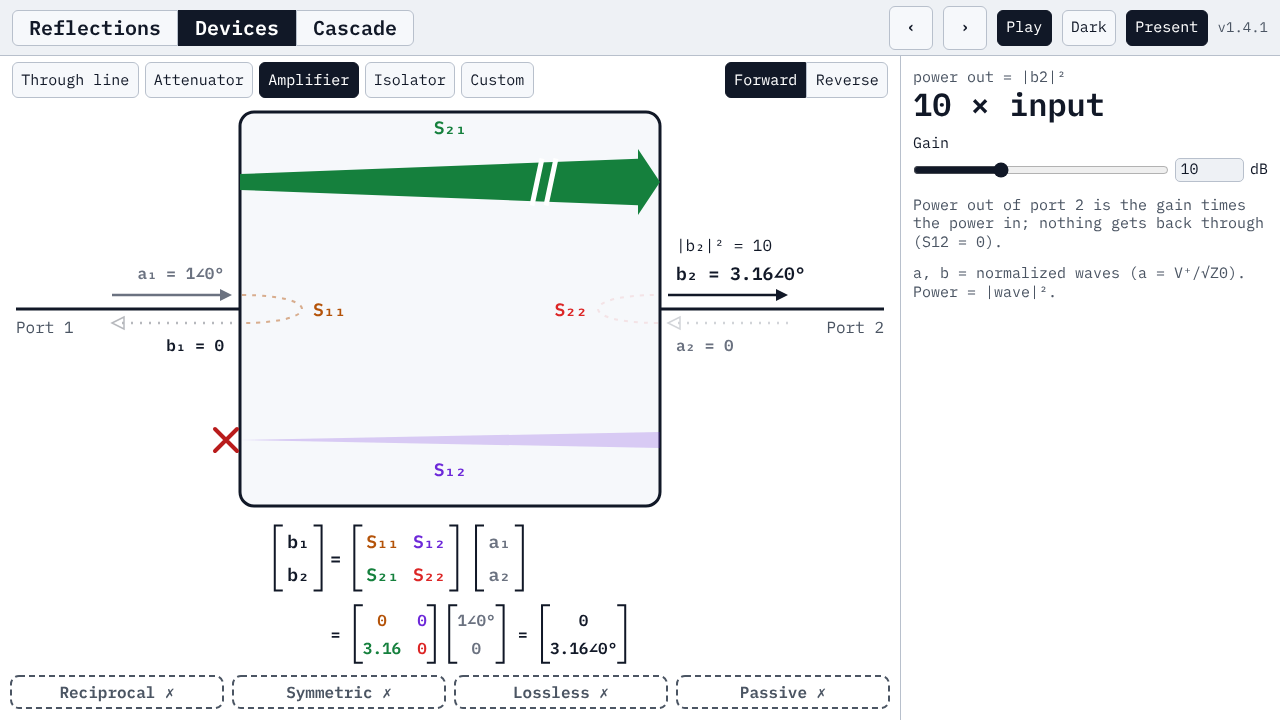
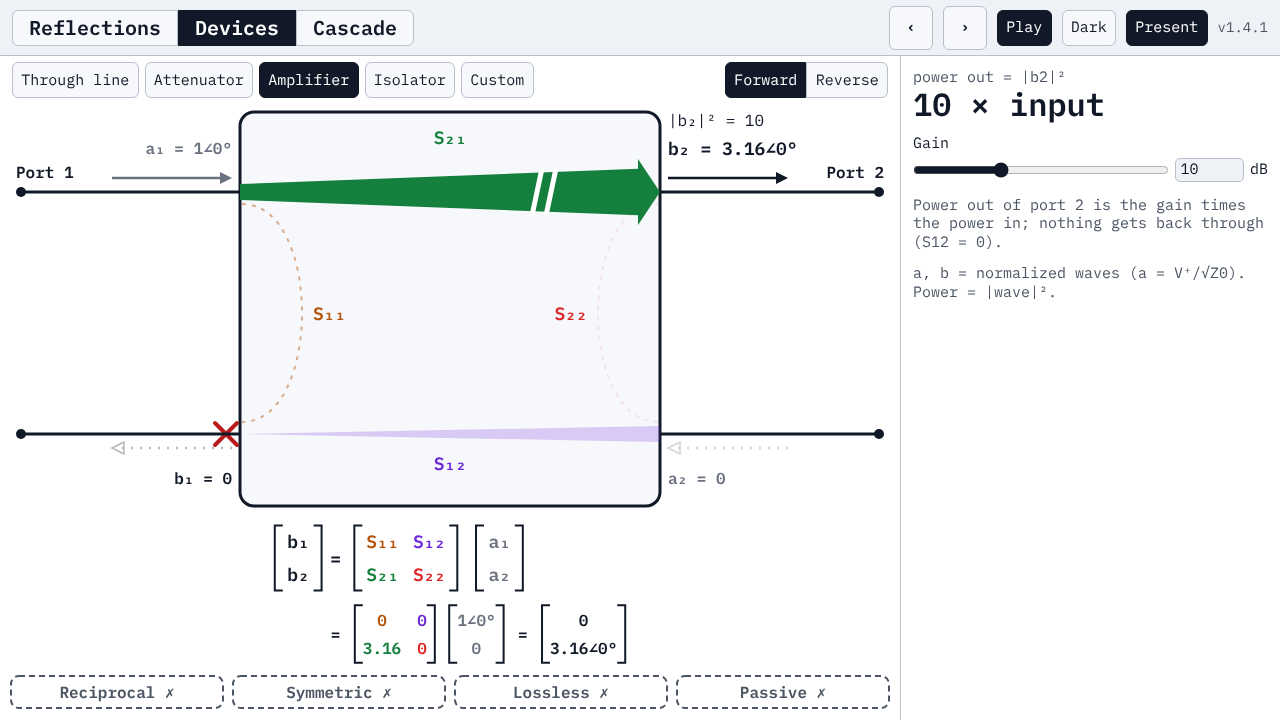
RF Cascade Analyzer v1.4.1: Devices ports drawn as the two-port symbol, paths joining the ports
Per Douglas: each port is two terminal wires with dots at the outer
ends and "Port 1/2" above them. The wires line up with the paths inside
(signal-flow style): S21 runs from port 1's top wire to port 2's top
wire, S12 from port 2's bottom wire to port 1's bottom wire, S11 loops
from port 1's top wire to its bottom wire, S22 from port 2's bottom
wire to its top wire. a1 comes in above port 1's top wire, b1 goes out
below its bottom wire; b2 goes out above port 2's top wire, a2 comes in
below its bottom wire. Tests updated.

Claude-Session: https://claude.ai/code/session_01K91XZ2Ca3dbV4NeCriL9c8

diff --git a/ece-4123/RF_Cascade_Analyzer_v1.4.1.html b/ece-4123/RF_Cascade_Analyzer_v1.4.1.html
@@ -847,15 +847,16 @@ const W0 = 16;                   // lane width for power 1 (the input); a path's
 const W_CAP = 3;                 // widths above 3 W0 are capped and drawn with a break mark
 const U_MIN = 2;                 // a U-turn's stroke is never thinner than this
 /* Layout (design units = px at 1280×720). The matrix rows and badges are stacked from the bottom up (gaps as in v1.2.0:
-   badges 12 above the bottom, the numeric row 12 above the badges); the box takes the height left above them.
-   Inside the box the S21 lane runs laneT below its top and the S12 lane laneB above its bottom, leaving room for their
-   tags even at the 3 W0 cap; the U-turns span uHalf above and below the port point (the box's middle), in line with the
-   wave arrows. The box is at most boxMax tall; in a taller drawing the whole stack is centred. Outside: the
-   port line from the edge to the box; the wave arrows (arrowL long) wOff above / below it, ending armGap from the box;
-   their labels labOff further out (and labIn further from the box, clear of a thick U-turn), the power line pwrGap
-   beyond its label; "Port 1/2" just under the line's outer end. */
-const LY_D = { xl: 240, xr: 660, top: 8, laneT: 70, laneB: 66, edge: 16, uDepth: 80, uHalf: 14, boxMax: 440, tagGap: 10, badgeH: 32, gapEdge: 12,
-               numHalf: 30, gapNum: 12, matHalf: 36, gapMat: 10, gapBox: 16, wOff: 14, arrowL: 120, armGap: 8, labIn: 8, labOff: 22, pwrGap: 28, portDown: 18 };
+   badges 12 above the bottom, the numeric row 12 above the badges); the box takes the height left above them (at most
+   boxMax; in a taller drawing the whole stack is centred). The two-port as a signal-flow graph: each port is two
+   terminal wires (dots at the outer ends) in line with the paths inside — the top wires at the S21 lane (laneT below
+   the box top), the bottom wires at the S12 lane (laneB above its bottom) — so S21 runs port 1 top → port 2 top, S12
+   port 2 bottom → port 1 bottom, S11 loops port 1 top → bottom (uEnd inside the corners) and S22 port 2 bottom → top.
+   Waves: a1 in above port 1's top wire, b1 out below its bottom wire; b2 out above port 2's top wire, a2 in below its
+   bottom wire; arrows arrowL long, wOff from the wire, ending armGap from the box; labels labOff further out, the power
+   line pwrGap beyond its label; "Port 1/2" above the top wire at the outer end (portUp). */
+const LY_D = { xl: 240, xr: 660, top: 8, laneT: 80, laneB: 72, edge: 16, uDepth: 80, uEnd: 12, boxMax: 400, tagGap: 10, badgeH: 32, gapEdge: 12,
+               numHalf: 30, gapNum: 12, matHalf: 36, gapMat: 10, gapBox: 16, termR: 5, wOff: 14, arrowL: 120, armGap: 8, labOff: 30, pwrGap: 28, portUp: 20 };
 // Vertical positions for a drawing H units tall: box top, badge, numeric row and matrix centres, box bottom.
 function geoD(H){
   const L = LY_D, stack = L.gapEdge + L.badgeH + L.gapNum + 2 * L.numHalf + L.gapMat + 2 * L.matHalf + L.gapBox;
@@ -949,40 +950,43 @@ function uTurnSvg(k, xe, yIn, yOut, m){
     + el('path', { d: 'M' + n2(xt) + ' ' + n2(yOut) + 'L' + n2(xe + d * 6) + ' ' + n2(yOut - w / 2 - 8) + 'L' + n2(xe + d * 6) + ' ' + n2(yOut + w / 2 + 8) + 'Z', fill: col, class: 'uhead' }),
     reach: LY_D.uDepth * 0.75 + w / 2 };
 }
-/* The two-port for device kind/params p in a drawing H units tall: a plain box holding the S21 and S12 lanes and the S11,
-   S22 U-turns with their name tags (no values: those are in the matrix); outside it one solid port line per side at the
-   box's middle, the wave arrows beside it with their labels, the driven output's power line, and "Port 1", "Port 2". */
+/* The two-port for device kind/params p in a drawing H units tall, as a signal-flow graph: a plain box holding the S21 and
+   S12 lanes and the S11, S22 loops with their name tags (no values: those are in the matrix), joined to the ports' two
+   terminal wires; outside it the wave arrows beside the wires with their labels, the driven output's power line, and
+   "Port 1", "Port 2" above the wires. */
 function drawTwoPort(H, kind, p){
   const S = deviceS(kind, p), w = deviceWaves(S), on = DRIVE_PATHS[D.drive], fwd = D.drive === 'fwd', L = LY_D, G = geoD(H);
-  const xl = L.xl, xr = L.xr, by = G.by, bb = G.bb, yT = by + L.laneT, yB = bb - L.laneB, mid = (by + bb) / 2, cx = (xl + xr) / 2;
+  const xl = L.xl, xr = L.xr, by = G.by, bb = G.bb, yT = by + L.laneT, yB = bb - L.laneB, mid = (yT + yB) / 2, cx = (xl + xr) / 2;
   const M = k => cabs(S[k]), op = k => (on.includes(k) ? null : FADE), wEnd = k => (M(k) < S_BLOCK ? 0 : pathW(M(k) ** 2));
   let s = el('rect', { x: xl, y: by, width: xr - xl, height: bb - by, rx: 14, fill: 'var(--panel)', stroke: 'var(--txt)', 'stroke-width': 3, class: 'box' });
-  // paths: the faded ones first so the driven ones sit on top; the U-turns at the port points
-  const u11 = uTurnSvg('s11', xl + 2, mid - L.uHalf, mid + L.uHalf, M('s11')), u22 = uTurnSvg('s22', xr - 2, mid + L.uHalf, mid - L.uHalf, M('s22'));
+  // paths: S21 a1 → b2 along the top, S12 a2 → b1 along the bottom, S11 a1 → b1 down the left, S22 a2 → b2 up the right;
+  // the faded ones first so the driven ones sit on top
+  const u11 = uTurnSvg('s11', xl + 2, yT + L.uEnd, yB - L.uEnd, M('s11')), u22 = uTurnSvg('s22', xr - 2, yB - L.uEnd, yT + L.uEnd, M('s22'));
   const l21 = laneSvg('s21', xl, xr, yT, M('s21')), l12 = laneSvg('s12', xr, xl, yB, M('s12')), parts = { s21: l21.svg, s12: l12.svg, s11: u11.svg, s22: u22.svg };
   S_KEYS.slice().sort((a, b) => on.includes(a) - on.includes(b)).forEach(k => { s += el('g', { class: 'pathg ' + k, 'data-s': k, 'data-live': on.includes(k) ? 1 : 0, opacity: op(k) }, parts[k]); });
   s += l21.mark + l12.mark;
   // S name tags, tagGap clear of the paths at their widest: S21 above the top lane and S12 below the bottom lane (a
   // lane's widest point is its arrowhead, 9 beyond the lane on each side; a blocked lane is a W0 wedge), S11 right of
-  // its U-turn and S22 left of its U-turn (which start 2 inside the box edge), at the port point
+  // its loop and S22 left of its loop (which start 2 inside the box edge), halfway down
   const half = FS.big * 0.65, edge = k => (M(k) < S_BLOCK ? W0 / 2 : Math.max(W0 / 2, Math.max(wEnd(k), 4) / 2 + 9));
   const lab = (k, x, y, anchor) => txt(x, y, 'S_' + k.slice(1), { anchor, size: FS.big, fill: 'var(--' + k + ')', cls: 'slabel', id: 'v' + k });
   s += lab('s21', cx, yT - edge('s21') - L.tagGap - half, 'middle') + lab('s12', cx, yB + edge('s12') + L.tagGap + half, 'middle');
   s += lab('s11', xl + 2 + u11.reach + L.tagGap, mid, 'start') + lab('s22', xr - 2 - u22.reach - L.tagGap, mid, 'end');
-  // port lines: one solid line per side at the middle, from the edge to the box, never faded
-  const xL = L.edge, xR = DESIGN_W - L.edge, line = (x0, x1, port) => el('line', { x1: x0, y1: mid, x2: x1, y2: mid, stroke: 'var(--txt)', 'stroke-width': 3, class: 'portline', 'data-port': port });
-  s += line(xL, xl, 1) + line(xr, xR, 2);
-  // wave arrows beside the port lines (a grey, b text colour) and their labels on the outer side; the driven output bold
-  const aU = mid - L.wOff, aD = mid + L.wOff, p1 = xl - L.armGap, p2 = xr + L.armGap, t1 = p1 - L.labIn, t2 = p2 + L.labIn, col = n => (n[0] === 'a' ? 'var(--grey)' : 'var(--txt)');
+  // each port's two terminal wires, in line with the lanes, from a terminal dot at the outer end to the box; never faded
+  const xL = L.edge, xR = DESIGN_W - L.edge, wire2 = (x0, x1, y, port, xd) => el('line', { x1: x0, y1: y, x2: x1, y2: y, stroke: 'var(--txt)', 'stroke-width': 3, class: 'portline', 'data-port': port })
+    + el('circle', { cx: xd, cy: y, r: L.termR, fill: 'var(--txt)', class: 'term' });
+  for(const y of [yT, yB]) s += wire2(xL + L.termR, xl, y, 1, xL + L.termR) + wire2(xr, xR - L.termR, y, 2, xR - L.termR);
+  // wave arrows beside the wires (a grey, b text colour) and their labels on the outer side; the driven output bold
+  const aU = yT - L.wOff, aD = yB + L.wOff, p1 = xl - L.armGap, p2 = xr + L.armGap, col = n => (n[0] === 'a' ? 'var(--grey)' : 'var(--txt)');
   const wire = (x0, x1, y, name) => lineArrow(x0, x1, y, col(name), cabs(w[name]) < S_ZERO, name, cabs(w[name]));
   const wlab = (name, x, y, anchor, big) => txt(x, y, name.replace(/(\d)$/, '_$1') + ' = ' + waveText(w[name]), { anchor, fill: col(name), size: big ? FS_OUT : FS.label, weight: big ? 700 : 600, cls: 'wlabel' + (big ? ' out' : ''), id: 'w' + name });
   const plab = (name, x, y, anchor) => txt(x, y, '|' + name.replace(/(\d)$/, '_$1') + '|² = ' + (cabs(w[name]) < S_ZERO ? '0' : sig2(cabs(w[name]) ** 2)), { anchor, fill: 'var(--txt)', size: FS.label, weight: 400, cls: 'plabel', id: 'p' + name });
-  s += wire(p1 - L.arrowL, p1, aU, 'a1') + wlab('a1', t1, aU - L.labOff, 'end', false);
-  s += wire(p1, p1 - L.arrowL, aD, 'b1') + wlab('b1', t1, aD + L.labOff, 'end', !fwd);
-  s += wire(p2, p2 + L.arrowL, aU, 'b2') + wlab('b2', t2, aU - L.labOff, 'start', fwd);
-  s += wire(p2 + L.arrowL, p2, aD, 'a2') + wlab('a2', t2, aD + L.labOff, 'start', false);
-  s += fwd ? plab('b2', t2, aU - L.labOff - L.pwrGap, 'start') : plab('b1', t1, aD + L.labOff + L.pwrGap, 'end');
-  s += txt(xL, mid + L.portDown, 'Port 1', { fill: 'var(--mut)', weight: 400, cls: 'port' }) + txt(xR, mid + L.portDown, 'Port 2', { anchor: 'end', fill: 'var(--mut)', weight: 400, cls: 'port' });
+  s += wire(p1 - L.arrowL, p1, aU, 'a1') + wlab('a1', p1, aU - L.labOff, 'end', false);
+  s += wire(p1, p1 - L.arrowL, aD, 'b1') + wlab('b1', p1, aD + L.labOff, 'end', !fwd);
+  s += wire(p2, p2 + L.arrowL, aU, 'b2') + wlab('b2', p2, aU - L.labOff, 'start', fwd);
+  s += wire(p2 + L.arrowL, p2, aD, 'a2') + wlab('a2', p2, aD + L.labOff, 'start', false);
+  s += fwd ? plab('b2', p2, aU - L.labOff - L.pwrGap, 'start') : plab('b1', p1, aD + L.labOff + L.pwrGap, 'end');
+  s += txt(xL, yT - L.portUp, 'Port 1', { weight: 600, cls: 'port' }) + txt(xR, yT - L.portUp, 'Port 2', { anchor: 'end', weight: 600, cls: 'port' });
   return { svg: s, S, w, G };
 }
 // ── END TWO-PORT DRAWING ──────────────────────────────────────

diff --git a/ece-4123/RF_Cascade_Analyzer_src/devices.js b/ece-4123/RF_Cascade_Analyzer_src/devices.js
@@ -28,15 +28,16 @@ const W0 = 16;                   // lane width for power 1 (the input); a path's
 const W_CAP = 3;                 // widths above 3 W0 are capped and drawn with a break mark
 const U_MIN = 2;                 // a U-turn's stroke is never thinner than this
 /* Layout (design units = px at 1280×720). The matrix rows and badges are stacked from the bottom up (gaps as in v1.2.0:
-   badges 12 above the bottom, the numeric row 12 above the badges); the box takes the height left above them.
-   Inside the box the S21 lane runs laneT below its top and the S12 lane laneB above its bottom, leaving room for their
-   tags even at the 3 W0 cap; the U-turns span uHalf above and below the port point (the box's middle), in line with the
-   wave arrows. The box is at most boxMax tall; in a taller drawing the whole stack is centred. Outside: the
-   port line from the edge to the box; the wave arrows (arrowL long) wOff above / below it, ending armGap from the box;
-   their labels labOff further out (and labIn further from the box, clear of a thick U-turn), the power line pwrGap
-   beyond its label; "Port 1/2" just under the line's outer end. */
-const LY_D = { xl: 240, xr: 660, top: 8, laneT: 70, laneB: 66, edge: 16, uDepth: 80, uHalf: 14, boxMax: 440, tagGap: 10, badgeH: 32, gapEdge: 12,
-               numHalf: 30, gapNum: 12, matHalf: 36, gapMat: 10, gapBox: 16, wOff: 14, arrowL: 120, armGap: 8, labIn: 8, labOff: 22, pwrGap: 28, portDown: 18 };
+   badges 12 above the bottom, the numeric row 12 above the badges); the box takes the height left above them (at most
+   boxMax; in a taller drawing the whole stack is centred). The two-port as a signal-flow graph: each port is two
+   terminal wires (dots at the outer ends) in line with the paths inside — the top wires at the S21 lane (laneT below
+   the box top), the bottom wires at the S12 lane (laneB above its bottom) — so S21 runs port 1 top → port 2 top, S12
+   port 2 bottom → port 1 bottom, S11 loops port 1 top → bottom (uEnd inside the corners) and S22 port 2 bottom → top.
+   Waves: a1 in above port 1's top wire, b1 out below its bottom wire; b2 out above port 2's top wire, a2 in below its
+   bottom wire; arrows arrowL long, wOff from the wire, ending armGap from the box; labels labOff further out, the power
+   line pwrGap beyond its label; "Port 1/2" above the top wire at the outer end (portUp). */
+const LY_D = { xl: 240, xr: 660, top: 8, laneT: 80, laneB: 72, edge: 16, uDepth: 80, uEnd: 12, boxMax: 400, tagGap: 10, badgeH: 32, gapEdge: 12,
+               numHalf: 30, gapNum: 12, matHalf: 36, gapMat: 10, gapBox: 16, termR: 5, wOff: 14, arrowL: 120, armGap: 8, labOff: 30, pwrGap: 28, portUp: 20 };
 // Vertical positions for a drawing H units tall: box top, badge, numeric row and matrix centres, box bottom.
 function geoD(H){
   const L = LY_D, stack = L.gapEdge + L.badgeH + L.gapNum + 2 * L.numHalf + L.gapMat + 2 * L.matHalf + L.gapBox;
@@ -130,40 +131,43 @@ function uTurnSvg(k, xe, yIn, yOut, m){
     + el('path', { d: 'M' + n2(xt) + ' ' + n2(yOut) + 'L' + n2(xe + d * 6) + ' ' + n2(yOut - w / 2 - 8) + 'L' + n2(xe + d * 6) + ' ' + n2(yOut + w / 2 + 8) + 'Z', fill: col, class: 'uhead' }),
     reach: LY_D.uDepth * 0.75 + w / 2 };
 }
-/* The two-port for device kind/params p in a drawing H units tall: a plain box holding the S21 and S12 lanes and the S11,
-   S22 U-turns with their name tags (no values: those are in the matrix); outside it one solid port line per side at the
-   box's middle, the wave arrows beside it with their labels, the driven output's power line, and "Port 1", "Port 2". */
+/* The two-port for device kind/params p in a drawing H units tall, as a signal-flow graph: a plain box holding the S21 and
+   S12 lanes and the S11, S22 loops with their name tags (no values: those are in the matrix), joined to the ports' two
+   terminal wires; outside it the wave arrows beside the wires with their labels, the driven output's power line, and
+   "Port 1", "Port 2" above the wires. */
 function drawTwoPort(H, kind, p){
   const S = deviceS(kind, p), w = deviceWaves(S), on = DRIVE_PATHS[D.drive], fwd = D.drive === 'fwd', L = LY_D, G = geoD(H);
-  const xl = L.xl, xr = L.xr, by = G.by, bb = G.bb, yT = by + L.laneT, yB = bb - L.laneB, mid = (by + bb) / 2, cx = (xl + xr) / 2;
+  const xl = L.xl, xr = L.xr, by = G.by, bb = G.bb, yT = by + L.laneT, yB = bb - L.laneB, mid = (yT + yB) / 2, cx = (xl + xr) / 2;
   const M = k => cabs(S[k]), op = k => (on.includes(k) ? null : FADE), wEnd = k => (M(k) < S_BLOCK ? 0 : pathW(M(k) ** 2));
   let s = el('rect', { x: xl, y: by, width: xr - xl, height: bb - by, rx: 14, fill: 'var(--panel)', stroke: 'var(--txt)', 'stroke-width': 3, class: 'box' });
-  // paths: the faded ones first so the driven ones sit on top; the U-turns at the port points
-  const u11 = uTurnSvg('s11', xl + 2, mid - L.uHalf, mid + L.uHalf, M('s11')), u22 = uTurnSvg('s22', xr - 2, mid + L.uHalf, mid - L.uHalf, M('s22'));
+  // paths: S21 a1 → b2 along the top, S12 a2 → b1 along the bottom, S11 a1 → b1 down the left, S22 a2 → b2 up the right;
+  // the faded ones first so the driven ones sit on top
+  const u11 = uTurnSvg('s11', xl + 2, yT + L.uEnd, yB - L.uEnd, M('s11')), u22 = uTurnSvg('s22', xr - 2, yB - L.uEnd, yT + L.uEnd, M('s22'));
   const l21 = laneSvg('s21', xl, xr, yT, M('s21')), l12 = laneSvg('s12', xr, xl, yB, M('s12')), parts = { s21: l21.svg, s12: l12.svg, s11: u11.svg, s22: u22.svg };
   S_KEYS.slice().sort((a, b) => on.includes(a) - on.includes(b)).forEach(k => { s += el('g', { class: 'pathg ' + k, 'data-s': k, 'data-live': on.includes(k) ? 1 : 0, opacity: op(k) }, parts[k]); });
   s += l21.mark + l12.mark;
   // S name tags, tagGap clear of the paths at their widest: S21 above the top lane and S12 below the bottom lane (a
   // lane's widest point is its arrowhead, 9 beyond the lane on each side; a blocked lane is a W0 wedge), S11 right of
-  // its U-turn and S22 left of its U-turn (which start 2 inside the box edge), at the port point
+  // its loop and S22 left of its loop (which start 2 inside the box edge), halfway down
   const half = FS.big * 0.65, edge = k => (M(k) < S_BLOCK ? W0 / 2 : Math.max(W0 / 2, Math.max(wEnd(k), 4) / 2 + 9));
   const lab = (k, x, y, anchor) => txt(x, y, 'S_' + k.slice(1), { anchor, size: FS.big, fill: 'var(--' + k + ')', cls: 'slabel', id: 'v' + k });
   s += lab('s21', cx, yT - edge('s21') - L.tagGap - half, 'middle') + lab('s12', cx, yB + edge('s12') + L.tagGap + half, 'middle');
   s += lab('s11', xl + 2 + u11.reach + L.tagGap, mid, 'start') + lab('s22', xr - 2 - u22.reach - L.tagGap, mid, 'end');
-  // port lines: one solid line per side at the middle, from the edge to the box, never faded
-  const xL = L.edge, xR = DESIGN_W - L.edge, line = (x0, x1, port) => el('line', { x1: x0, y1: mid, x2: x1, y2: mid, stroke: 'var(--txt)', 'stroke-width': 3, class: 'portline', 'data-port': port });
-  s += line(xL, xl, 1) + line(xr, xR, 2);
-  // wave arrows beside the port lines (a grey, b text colour) and their labels on the outer side; the driven output bold
-  const aU = mid - L.wOff, aD = mid + L.wOff, p1 = xl - L.armGap, p2 = xr + L.armGap, t1 = p1 - L.labIn, t2 = p2 + L.labIn, col = n => (n[0] === 'a' ? 'var(--grey)' : 'var(--txt)');
+  // each port's two terminal wires, in line with the lanes, from a terminal dot at the outer end to the box; never faded
+  const xL = L.edge, xR = DESIGN_W - L.edge, wire2 = (x0, x1, y, port, xd) => el('line', { x1: x0, y1: y, x2: x1, y2: y, stroke: 'var(--txt)', 'stroke-width': 3, class: 'portline', 'data-port': port })
+    + el('circle', { cx: xd, cy: y, r: L.termR, fill: 'var(--txt)', class: 'term' });
+  for(const y of [yT, yB]) s += wire2(xL + L.termR, xl, y, 1, xL + L.termR) + wire2(xr, xR - L.termR, y, 2, xR - L.termR);
+  // wave arrows beside the wires (a grey, b text colour) and their labels on the outer side; the driven output bold
+  const aU = yT - L.wOff, aD = yB + L.wOff, p1 = xl - L.armGap, p2 = xr + L.armGap, col = n => (n[0] === 'a' ? 'var(--grey)' : 'var(--txt)');
   const wire = (x0, x1, y, name) => lineArrow(x0, x1, y, col(name), cabs(w[name]) < S_ZERO, name, cabs(w[name]));
   const wlab = (name, x, y, anchor, big) => txt(x, y, name.replace(/(\d)$/, '_$1') + ' = ' + waveText(w[name]), { anchor, fill: col(name), size: big ? FS_OUT : FS.label, weight: big ? 700 : 600, cls: 'wlabel' + (big ? ' out' : ''), id: 'w' + name });
   const plab = (name, x, y, anchor) => txt(x, y, '|' + name.replace(/(\d)$/, '_$1') + '|² = ' + (cabs(w[name]) < S_ZERO ? '0' : sig2(cabs(w[name]) ** 2)), { anchor, fill: 'var(--txt)', size: FS.label, weight: 400, cls: 'plabel', id: 'p' + name });
-  s += wire(p1 - L.arrowL, p1, aU, 'a1') + wlab('a1', t1, aU - L.labOff, 'end', false);
-  s += wire(p1, p1 - L.arrowL, aD, 'b1') + wlab('b1', t1, aD + L.labOff, 'end', !fwd);
-  s += wire(p2, p2 + L.arrowL, aU, 'b2') + wlab('b2', t2, aU - L.labOff, 'start', fwd);
-  s += wire(p2 + L.arrowL, p2, aD, 'a2') + wlab('a2', t2, aD + L.labOff, 'start', false);
-  s += fwd ? plab('b2', t2, aU - L.labOff - L.pwrGap, 'start') : plab('b1', t1, aD + L.labOff + L.pwrGap, 'end');
-  s += txt(xL, mid + L.portDown, 'Port 1', { fill: 'var(--mut)', weight: 400, cls: 'port' }) + txt(xR, mid + L.portDown, 'Port 2', { anchor: 'end', fill: 'var(--mut)', weight: 400, cls: 'port' });
+  s += wire(p1 - L.arrowL, p1, aU, 'a1') + wlab('a1', p1, aU - L.labOff, 'end', false);
+  s += wire(p1, p1 - L.arrowL, aD, 'b1') + wlab('b1', p1, aD + L.labOff, 'end', !fwd);
+  s += wire(p2, p2 + L.arrowL, aU, 'b2') + wlab('b2', p2, aU - L.labOff, 'start', fwd);
+  s += wire(p2 + L.arrowL, p2, aD, 'a2') + wlab('a2', p2, aD + L.labOff, 'start', false);
+  s += fwd ? plab('b2', p2, aU - L.labOff - L.pwrGap, 'start') : plab('b1', p1, aD + L.labOff + L.pwrGap, 'end');
+  s += txt(xL, yT - L.portUp, 'Port 1', { weight: 600, cls: 'port' }) + txt(xR, yT - L.portUp, 'Port 2', { anchor: 'end', weight: 600, cls: 'port' });
   return { svg: s, S, w, G };
 }
 // ── END TWO-PORT DRAWING ──────────────────────────────────────

diff --git a/ece-4123/RF_Cascade_Analyzer_src/tests/browser.test.js b/ece-4123/RF_Cascade_Analyzer_src/tests/browser.test.js
@@ -122,8 +122,10 @@ const plusIssues = page => page.evaluate(() => {
 });
 // ── DEVICES LAYOUT ── on screen, in px: box → matrix ≥ 16; numeric row → badges ≥ 12; badges → bottom of the screen
 // ≥ 12; every label and both matrix rows ≥ 16 from the drawing's left edge and from the drawing/panel divider; inside
-// the box no text but the four S name tags, which stay inside it (v1.3.0 items 1, 6; v1.4.0 B.2); one solid port line
-// per side at the box's middle, from the edge to the box, never faded (v1.4.1 B.1); S tags ≥ 8 px clear of every lane
+// the box no text but the four S name tags, which stay inside it (v1.3.0 items 1, 6; v1.4.0 B.2); each port drawn as
+// the two-port symbol — two solid terminal wires from a terminal dot at the 16 px edge to the box, never faded, the top
+// wires in line with the S21 lane and the bottom wires with the S12 lane (v1.4.1 B.1, as revised by Douglas: the paths
+// join the ports, signal-flow style); S tags ≥ 8 px clear of every lane
 // and U-turn (v1.4.1 B.2); matrix entries ≤ 20 px, row 2 ≤ 16 px, badge text ≤ 16 px (v1.4.1 B.3).
 const devGapIssues = page => page.evaluate(() => {
   const bad = [], R = e => e.getBoundingClientRect(), sv = document.querySelector('#stage svg'), svg = R(sv), box = R(document.querySelector('#stage .box')), k = svg.width / sv.viewBox.baseVal.width;
@@ -133,12 +135,14 @@ const devGapIssues = page => page.evaluate(() => {
   g('numeric row→badges', Math.min(...badges.map(r => r.top)) - num.bottom, 12); g('badges→screen bottom', window.innerHeight - Math.max(...badges.map(r => r.bottom)), 12);
   g('matrix rows from left edge', Math.min(mat.left, num.left) - svg.left, 16); g('matrix rows from divider', svg.right - Math.max(mat.right, num.right), 16);
   g('row 1 → row 2', num.top - mat.bottom, 4);
-  const pl = [...document.querySelectorAll('#stage .portline')], mid = (box.top + box.bottom) / 2;
-  if(pl.length !== 2) bad.push('port lines: ' + pl.length);
+  const pl = [...document.querySelectorAll('#stage .portline')], cyOf = e => { const r = R(e); return (r.top + r.bottom) / 2; };
+  const yT = cyOf(document.querySelector('#stage .lane.s21')), yB = cyOf(document.querySelector('#stage .lane.s12'));
+  if(pl.length !== 4) bad.push('port wires: ' + pl.length);
+  if(document.querySelectorAll('#stage .term').length !== 4) bad.push('terminal dots: ' + document.querySelectorAll('#stage .term').length);
   pl.forEach(l => { const r = R(l), cs = getComputedStyle(l), port = l.dataset.port;
     if(cs.strokeDasharray !== 'none' || l.closest('[opacity]') || l.getAttribute('stroke') !== 'var(--txt)' || +l.getAttribute('stroke-width') !== 3) bad.push('port line ' + port + ' not solid');
-    if(Math.abs((r.top + r.bottom) / 2 - mid) > 1) bad.push('port line ' + port + ' off the middle');
-    if(port === '1' ? (Math.abs(r.left - svg.left - 16 * k) > 1 || Math.abs(r.right - box.left) > 2) : (Math.abs(svg.right - r.right - 16 * k) > 1 || Math.abs(r.left - box.right) > 2)) bad.push('port line ' + port + ' ends'); });
+    const y = (r.top + r.bottom) / 2; if(Math.min(Math.abs(y - yT), Math.abs(y - yB)) > 1) bad.push('port wire ' + port + ' not in line with a lane');
+    if(port === '1' ? (Math.abs(r.left - svg.left - 21 * k) > 1 || Math.abs(r.right - box.left) > 2) : (Math.abs(svg.right - r.right - 21 * k) > 1 || Math.abs(r.left - box.right) > 2)) bad.push('port line ' + port + ' ends'); });
   const inkR = [...document.querySelectorAll('#stage .lane, #stage .uturn, #stage .brk')].map(e => { const r = R(e), sw = parseFloat(getComputedStyle(e).strokeWidth) || 0, o = e.classList.contains('uturn') ? sw / 2 * k : 0;
     return { l: r.left - o, r: r.right + o, t: r.top - o, b: r.bottom + o }; });
   ['vs11', 'vs21', 'vs12', 'vs22'].forEach(id => { const t = R(document.getElementById(id));
@@ -340,13 +344,17 @@ const alignIssues = page => page.evaluate(() => {
     check('inside the box: only the four S labels (no "Two-Port", dB caption, ruler or isolator text)', noText === 'vs11,vs12,vs21,vs22', noText);
     check('the box is a plain rounded rectangle (rx 14, 3 px border); no header line', await page.evaluate(() => { const b = document.querySelector('#stage .box');
       return b.getAttribute('rx') === '14' && b.getAttribute('stroke-width') === '3' && !document.querySelector('#stage .headline, #stage .boxTitle, #boxCaption'); }));
-    check('port layout (v1.4.1 B.1): one port line per side at the middle; a1 in above and b1 out below at port 1, b2 out above and a2 in below at port 2; "Port 1/2" under the outer ends', await page.evaluate(() => {
-      const r = q => document.querySelector('#stage .wave[data-q="' + q + '"]').getBoundingClientRect(), y = q => (r(q).top + r(q).bottom) / 2, dir = q => { const d = document.querySelector('#stage .wave[data-q="' + q + '"] path:last-child').getAttribute('d').match(/^M(-?[\d.]+) -?[\d.]+l(-?[\d.]+)/); return -Math.sign(+d[2]); };
-      const box = document.querySelector('#stage .box').getBoundingClientRect(), mid = (box.top + box.bottom) / 2, pl = [...document.querySelectorAll('#stage .portline')].map(e => e.getBoundingClientRect());
-      const ports = [...document.querySelectorAll('#stage .port')].map(e => e.getBoundingClientRect());
-      return pl.length === 2 && y('a1') < mid && y('b1') > mid && y('b2') < mid && y('a2') > mid && dir('a1') === 1 && dir('b1') === -1 && dir('b2') === 1 && dir('a2') === -1
-        && [y('a1'), y('b1'), y('b2'), y('a2')].every(v => Math.abs(Math.abs(v - mid) - 14) <= 2.5) && ['a1', 'b1', 'b2', 'a2'].every(q => Math.abs(r(q).width - 120) < 2)
-        && ports[0].top >= mid && ports[0].left <= pl[0].left + 1 && ports[1].top >= mid && ports[1].right >= pl[1].right - 1; }));
+    check('port layout (two-port symbol, signal flow): two terminal wires per port with dots at the outer ends, in line with the S21 (top) and S12 (bottom) lanes; "Port 1/2" above the wires; a1 in above and b1 out below at port 1, b2 out above and a2 in below at port 2; S11 loops from port 1 top to bottom, S22 from port 2 bottom to top', await page.evaluate(() => {
+      const q = s => document.querySelector('#stage ' + s), r = n => q('.wave[data-q="' + n + '"]').getBoundingClientRect(), cy = e => { const b = e.getBoundingClientRect(); return (b.top + b.bottom) / 2; };
+      const dir = n => -Math.sign(+q('.wave[data-q="' + n + '"] path:last-child').getAttribute('d').match(/^M(-?[\d.]+) -?[\d.]+l(-?[\d.]+)/)[2]);
+      const yT = cy(q('.lane.s21')), yB = cy(q('.lane.s12')), box = q('.box').getBoundingClientRect();
+      const wires = n => [...document.querySelectorAll('#stage .portline[data-port="' + n + '"]')].map(cy).sort((a, b) => a - b);
+      const ports = [...document.querySelectorAll('#stage .port')].map(e => e.getBoundingClientRect()), u11 = q('.uturn.s11').getBoundingClientRect(), u22 = q('.uturn.s22').getBoundingClientRect();
+      const inLine = (w) => w.length === 2 && Math.abs(w[0] - yT) < 1 && Math.abs(w[1] - yB) < 1;
+      return inLine(wires(1)) && inLine(wires(2)) && document.querySelectorAll('#stage .term').length === 4
+        && r('a1').bottom <= yT && r('b1').top >= yB && r('b2').bottom <= yT && r('a2').top >= yB && dir('a1') === 1 && dir('b1') === -1 && dir('b2') === 1 && dir('a2') === -1
+        && ['a1', 'b1', 'b2', 'a2'].every(n => Math.abs(r(n).width - 120) < 2) && ports.length === 2 && ports.every(p => p.bottom <= yT)
+        && u11.left >= box.left - 1 && u11.top >= yT && u11.bottom <= yB && u11.bottom - u11.top > 0.6 * (yB - yT) && u22.right <= box.right + 1 && u22.top >= yT && u22.bottom <= yB; }));
     check('no crossing paths: S21 lane straight along the top, S12 along the bottom', await page.evaluate(() => { const a = document.querySelector('#stage .lane.s21').getBoundingClientRect(), b = document.querySelector('#stage .lane.s12').getBoundingClientRect(); return a.bottom < b.top; }));
     check('Forward: S21 lane and S11 U-turn solid; S12 and S22 faded to 22 %; undriven a2 wire dotted', await (async () => { const P = await paths(), g = await ghostW();
       return P.S21.live && P.S11.live && P.S21.gop === 1 && near(P.S12.gop, 0.22, 1e-9) && near(P.S22.gop, 0.22, 1e-9) && g.a2 && !g.a1; })());
